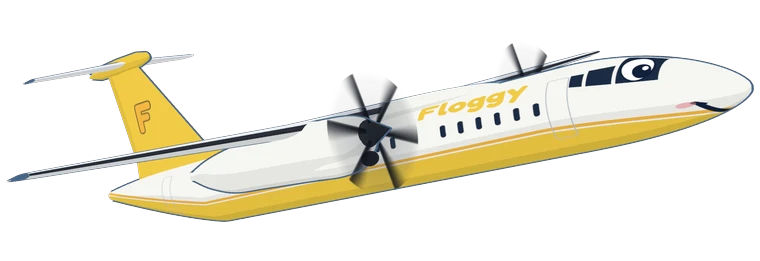
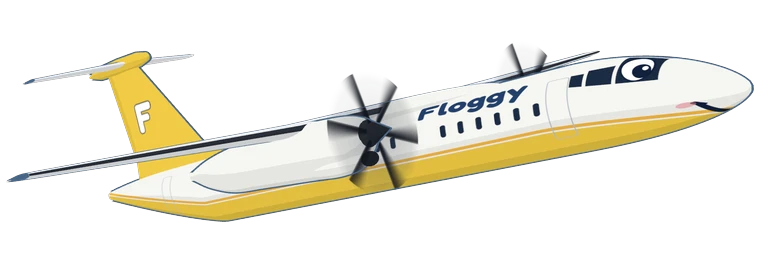
Q400 yellow livery: navy title and white F for contrast
Claude-Session: https://claude.ai/code/session_01NNraJzTUJfaFxwxjGJdiP6

Changed region(s): [[0.5447, 0.3065, 0.6961, 0.4598], [0.1513, 0.3678, 0.2118, 0.5211]]

diff --git a/_art/q400-3d/scene.js b/_art/q400-3d/scene.js
@@ -95,7 +95,7 @@ function fuselageTexture() {
   // title
   for (const side of [1, -1]) { const s = +(P.get('ts') || 13.2), th = thAt(s, +(P.get('ty') || 0.98)); const T = side > 0 ? th : Math.PI * 2 - th;
     g.save(); g.translate(sx(s), ty(T)); g.scale(side > 0 ? -1 : 1, 1);
-    g.font = '700 190px Fredoka'; g.lineWidth = 14; g.strokeStyle = WHITE; g.fillStyle = LIV; g.textAlign = 'center'; g.textBaseline = 'middle';
+    g.font = '700 190px Fredoka'; g.lineWidth = 14; g.strokeStyle = WHITE; g.fillStyle = P.get('tcol') || LIV; g.textAlign = 'center'; g.textBaseline = 'middle';
     g.strokeText('Floggy', 0, 0); g.fillText('Floggy', 0, 0); g.restore(); }
   if (FACE) {
     const es = +(P.get('es') || 2.95), ef = +(P.get('ef') || 0.55);
@@ -118,7 +118,7 @@ function finTexture(fx = 560, fy = 470) {
   const c = document.createElement('canvas'); c.width = 1024; c.height = 1024; const g = c.getContext('2d');
   g.fillStyle = LIV; g.fillRect(0, 0, 1024, 1024);
   g.save(); g.font = '700 360px Fredoka'; g.textAlign = 'center'; g.textBaseline = 'middle';
-  g.lineWidth = 18; g.strokeStyle = NAVY; g.strokeText('F', fx, fy + 14); g.fillStyle = AMBER; g.fillText('F', fx, fy + 14); g.restore();
+  g.lineWidth = 18; g.strokeStyle = NAVY; g.strokeText('F', fx, fy + 14); g.fillStyle = P.get('fcol') || AMBER; g.fillText('F', fx, fy + 14); g.restore();
   const t = new THREE.CanvasTexture(c); t.flipY = false; t.colorSpace = THREE.SRGBColorSpace; return t;
 }
 

diff --git a/_art/q400-3d/README.md b/_art/q400-3d/README.md
@@ -32,10 +32,11 @@ Livery colors:
 | purple | `#7835A0` |
 | red | `#AD2F35` |
 | teal | `#2F9399` |
-| yellow | `#F2CC45` |
+| yellow | `#F2CC45`, plus `tcol=#22406E&fcol=#FFFFFF` so the title and F stay readable |
 
 Other knobs, as URL parameters:
 - `ts`, `ty`: title position.
+- `tcol`, `fcol`: title and tail-F colors; they default to the livery color and amber.
 - `es`, `ef`: eye position.
 - `ms`, `mw`, `mc`: smile position, width and curve.
 - `irot`, `io`: inlet swing and offset.
